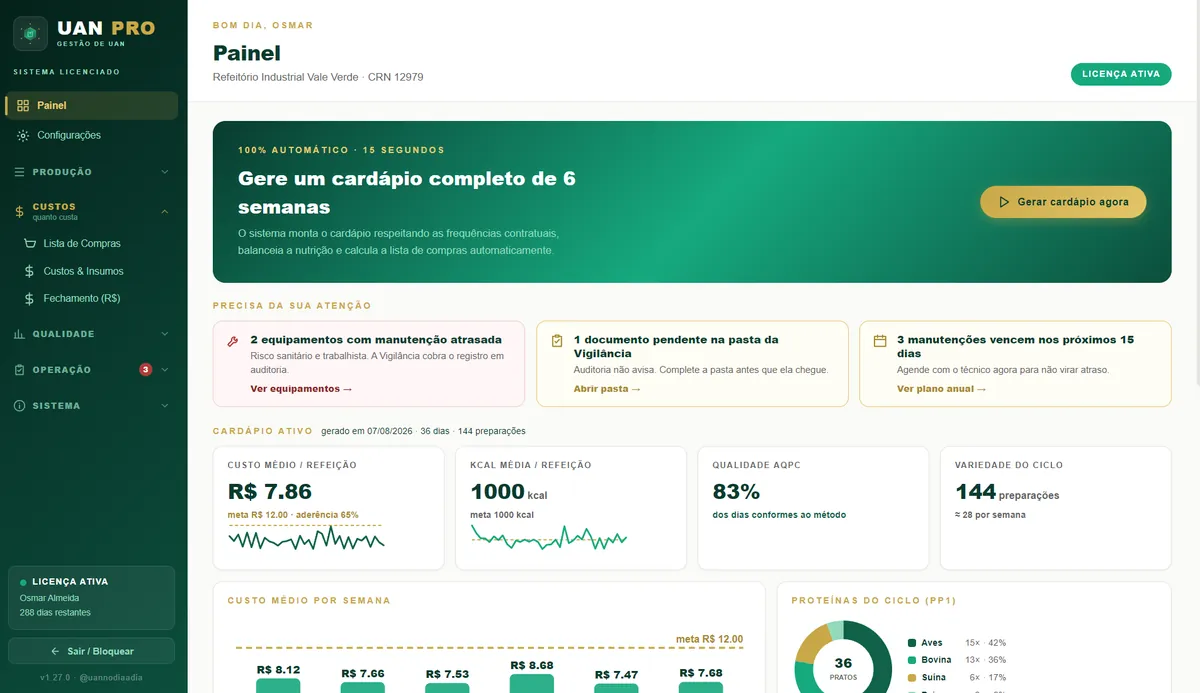
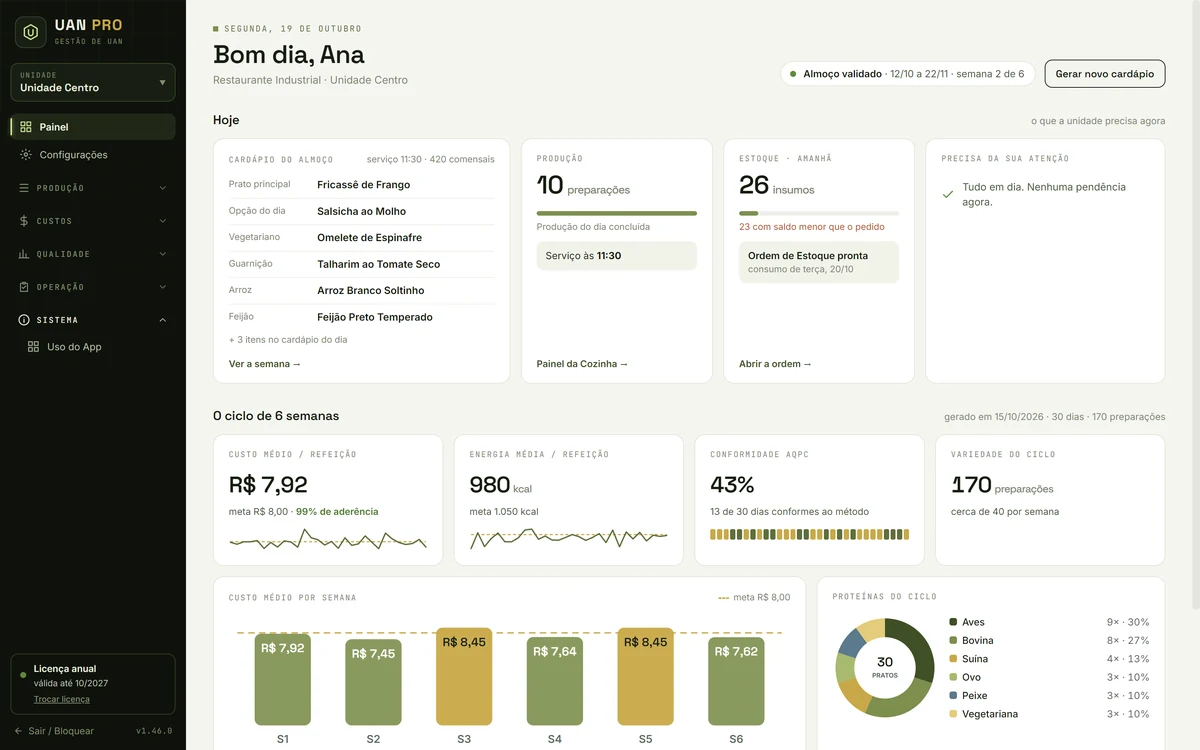
UAN PRO 1.46: cara nova (seção #caranova, Painel novo, v1.46, imagem do e-mail)

diff --git a/uanpro/index.html b/uanpro/index.html
@@ -455,7 +455,7 @@ footer{border-top:1px solid var(--linha);padding:44px 0 36px;background:var(--bg
           <path d="M12 2l8.5 4.9v9.8L12 21.6 3.5 16.7V6.9z"/><path d="M9 8.5v5a3 3 0 0 0 6 0v-5"/>
         </svg>
       </span>
-      <span><span class="nm">UAN <b>PRO</b></span><span class="tag">Gestão de UAN · v1.45</span></span>
+      <span><span class="nm">UAN <b>PRO</b></span><span class="tag">Gestão de UAN · v1.46</span></span>
     </a>
     <button class="menu-btn" id="hamb" aria-label="Abrir menu">☰</button>
     <nav class="menu" id="menu">
@@ -503,7 +503,7 @@ footer{border-top:1px solid var(--linha);padding:44px 0 36px;background:var(--bg
       </div>
       <div class="hud rv">
         <div class="barra"><i></i><i></i><i></i><span>UAN PRO — Painel</span><span class="vivo">ao vivo</span></div>
-        <img decoding="async" src="img/01-painel-1200.webp" alt="Painel do UAN PRO com indicadores do cardápio ativo e alertas de pendências" width="1550" height="894">
+        <img decoding="async" src="img/01-painel-1200.webp" alt="Painel do UAN PRO 1.46 com o cardápio, a produção e o estoque de hoje e os indicadores do ciclo de 6 semanas" width="1600" height="1000">
         <div class="scan"></div>
       </div>
     </div>
@@ -630,13 +630,38 @@ footer{border-top:1px solid var(--linha);padding:44px 0 36px;background:var(--bg
   </div>
 </section>
 
+<!-- ================= CARA NOVA (1.46) ================= -->
+<section class="cozinha" id="caranova">
+  <div class="grade-bg"></div>
+  <div class="env" style="position:relative">
+    <div class="cz-grid">
+      <div class="rv">
+        <div class="olho">Novo na versão 1.46 · Cara nova</div>
+        <h2>Cara nova. <em>E o seu dia logo na abertura.</em></h2>
+        <p style="font-size:18px;margin-top:16px">O UAN PRO ganhou a identidade deste site e um Painel que responde, assim que você entra, o que a unidade precisa hoje. Nada mudou de lugar no menu, e a atualização chega sozinha, sem custo.</p>
+        <div class="cz-itens">
+          <div class="cz-item"><span class="num">01</span><div><b>Hoje, em quatro cartões</b><span>O cardápio do dia, a produção pelo relógio, o estoque de amanhã com o que falta e os alertas que pedem a sua atenção.</span></div></div>
+          <div class="cz-item"><span class="num">02</span><div><b>O ciclo logo abaixo</b><span>Custo médio e energia por refeição contra a meta, conformidade AQPC, variedade, custo por semana e proteínas do ciclo.</span></div></div>
+          <div class="cz-item"><span class="num">⌁</span><div><b>Visual do site, offline</b><span>Entrada nova, barra lateral mais enxuta, fontes e cores da marca dentro do programa: continua funcionando sem internet.</span></div></div>
+          <div class="cz-item"><span class="num">03</span><div><b>Números em português</b><span>Vírgula decimal em todo o app: kcal, gramas, percentuais e preços.</span></div></div>
+        </div>
+      </div>
+      <div class="cz-arte rv">
+        <img loading="lazy" decoding="async" src="img/cara-nova/cara-nova-1.46.webp" width="1600" height="1185"
+          alt="O Painel novo do UAN PRO com o cardápio, a produção e o estoque de hoje, e a nova tela de entrada com a identidade do site">
+      </div>
+    </div>
+  </div>
+</section>
+<div class="divisor"></div>
+
 <!-- ================= CENTRAL DA ETIQUETA (1.45) ================= -->
 <section class="cozinha" id="etiquetas">
   <div class="grade-bg"></div>
   <div class="env" style="position:relative">
     <div class="cz-grid">
       <div class="rv">
-        <div class="olho">Novo na versão 1.45 · Central da Etiqueta</div>
+        <div class="olho">Desde a versão 1.45 · Central da Etiqueta</div>
         <h2>Etiqueta pela norma. <em>Sem caneta.</em></h2>
         <p style="font-size:18px;margin-top:16px">Toda etiqueta da cozinha preenchida pelo app, com a validade calculada pela CVS 3/2026, número e histórico. E no hospital, o mapa de dietas do dia vira etiqueta de bandeja.</p>
         <div class="cz-itens">
@@ -817,6 +842,14 @@ footer{border-top:1px solid var(--linha);padding:44px 0 36px;background:var(--bg
     </div>
     <div class="tempo">
       <div class="ver atual rv">
+        <div class="vcab"><span class="vnum">1.46</span><span class="vdata">outubro de 2026</span><h3>Cara nova</h3></div>
+        <ul>
+          <li>Painel que abre com o dia de hoje: cardápio, produção pelo relógio, estoque de amanhã e alertas.</li>
+          <li>Identidade do site em todo o programa: tela de entrada, barra lateral, fontes e cores, tudo offline.</li>
+          <li>Números no padrão brasileiro em todas as telas; mapa AQPC dia a dia na Análise Nutricional.</li>
+        </ul>
+      </div>
+      <div class="ver rv">
         <div class="vcab"><span class="vnum">1.45</span><span class="vdata">outubro de 2026</span><h3>Central da Etiqueta</h3></div>
         <ul>
           <li>Oito modelos: aberto, fracionado, preparado, congelado, descongelamento e dessalga, transporte, amostra e marmita.</li>
